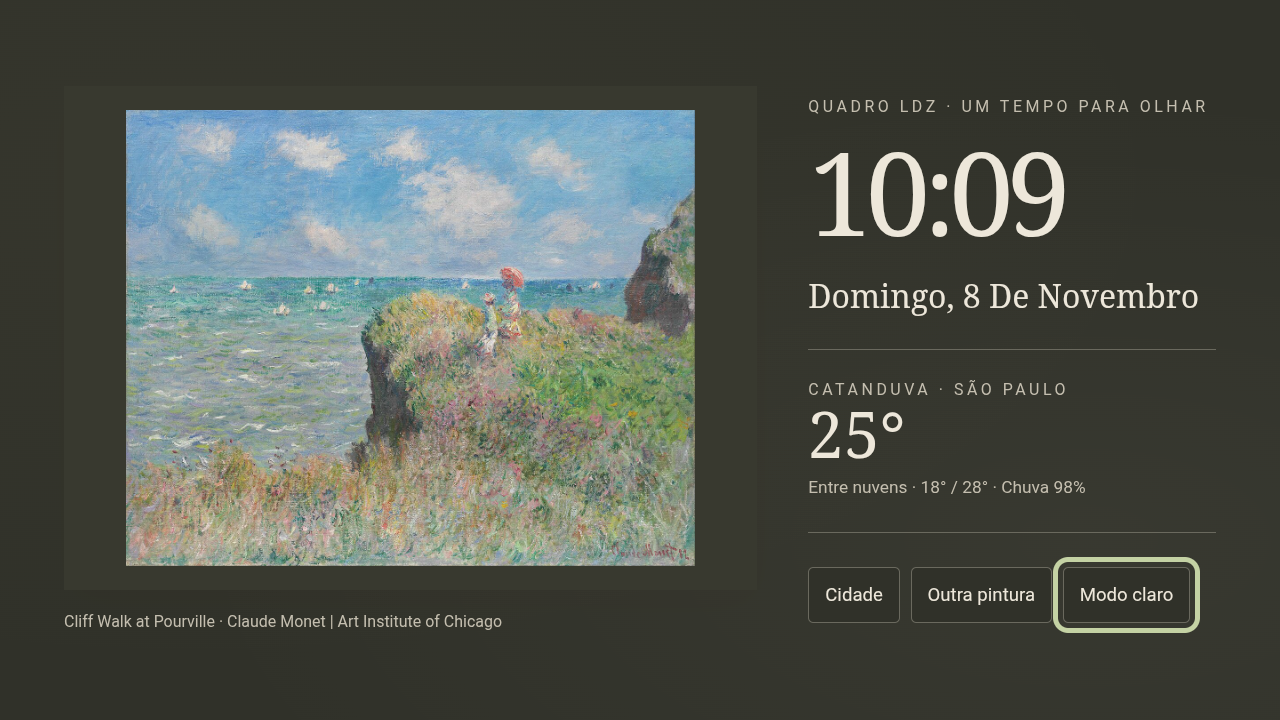
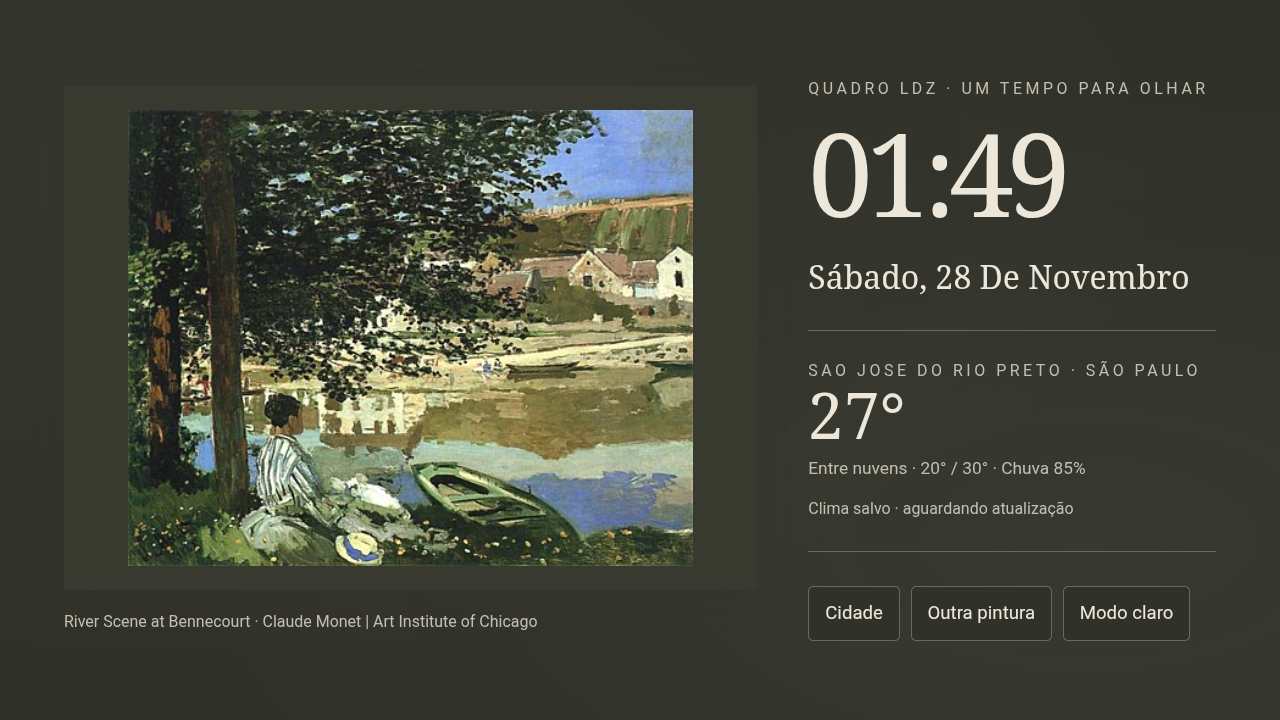
Atualiza capturas reais e colecao completa na demo do Quadro

diff --git a/demo.html b/demo.html
@@ -38,7 +38,7 @@ dialog p{font-size:13px;line-height:1.6;color:var(--muted)}
    <small>Clima ilustrativo. Hora e data no fuso da cidade de exemplo.</small>
   </section>
   <nav aria-label="Controles da demonstração"><button id="cityButton" aria-haspopup="dialog">Cidade</button><button id="next">Outra pintura</button><button id="theme" aria-pressed="false">Modo escuro</button></nav>
-  <p id="message" role="status">Seis obras · troca automática a cada 20 segundos.</p>
+  <p id="message" role="status">40 obras · troca automática a cada 20 segundos.</p>
  </aside>
 </main>
 <footer><span><strong class="label">Demonstração no navegador.</strong> No app: 40 pinturas offline, clima real e troca a cada 15 minutos.</span><span><a href="https://github.com/ludezam/Quadro-LDZ/releases/latest">Baixar para Android</a> · <a href="https://github.com/ludezam/Quadro-LDZ">Projeto e créditos</a></span></footer>
@@ -52,7 +52,7 @@ dialog p{font-size:13px;line-height:1.6;color:var(--muted)}
 <script>
 'use strict';
 // Seleção do catálogo do aplicativo, disponível também ao abrir este arquivo localmente.
-const works=[{"file": "pourville.jpg", "title": "Cliff Walk at Pourville", "artist": "Claude Monet", "collection": "Art Institute of Chicago"}, {"file": "br-01.jpg", "title": "Marinha, Guarujá", "artist": "Almeida Júnior", "collection": "Arte brasileira"}, {"file": "art-03.jpg", "title": "Paris Street; Rainy Day", "artist": "Gustave Caillebotte", "collection": "Art Institute of Chicago"}, {"file": "normandy.jpg", "title": "Arrival of the Normandy Train, Gare Saint-Lazare", "artist": "Claude Monet", "collection": "Art Institute of Chicago"}, {"file": "br-02.jpg", "title": "Paisagem do Sítio Rio das Pedras", "artist": "Almeida Júnior", "collection": "Arte brasileira"}, {"file": "br-04.jpg", "title": "Jardim à Beira-mar", "artist": "Benedito Calixto", "collection": "Arte brasileira"}];
+const works=[{"file":"pourville.jpg","title":"Cliff Walk at Pourville","artist":"Claude Monet","source":"https://commons.wikimedia.org/wiki/File:Claude_Monet_-_Cliff_Walk_at_Pourville_-_Google_Art_Project.jpg","license":"Public domain","collection":"Art Institute of Chicago"},{"file":"normandy.jpg","title":"Arrival of the Normandy Train, Gare Saint-Lazare","artist":"Claude Monet","source":"https://commons.wikimedia.org/wiki/File:Claude_Monet_-_Arrival_of_the_Normandy_Train,_Gare_Saint-Lazare_-_Google_Art_Project.jpg","license":"Public domain","collection":"Art Institute of Chicago"},{"file":"art-03.jpg","title":"Paris Street; Rainy Day","artist":"Gustave Caillebotte","source":"https://commons.wikimedia.org/wiki/File:Gustave_Caillebotte_-_Paris_Street;_Rainy_Day_-_Google_Art_Project.jpg","license":"Public domain","collection":"Art Institute of Chicago"},{"file":"br-01.jpg","title":"Marinha, Guarujá","artist":"Almeida Júnior","source":"https://commons.wikimedia.org/wiki/File:Almeida_J%C3%BAnior_-_Seascape,_Guaruj%C3%A1_-_Google_Art_Project.jpg","license":"Public domain","collection":"Arte brasileira","brazilian":true},{"file":"art-04.jpg","title":"Nocturne: Blue and Gold — Southampton Water","artist":"James McNeill Whistler","source":"https://commons.wikimedia.org/wiki/File:James_McNeill_Whistler_-_Nocturne-_Blue_and_Gold--Southampton_Water_-_Google_Art_Project.jpg","license":"Public domain","collection":"Art Institute of Chicago"},{"file":"art-05.jpg","title":"The Herring Net","artist":"Winslow Homer","source":"https://commons.wikimedia.org/wiki/File:Winslow_Homer_-_The_Herring_Net_-_Google_Art_Project.jpg","license":"Public domain","collection":"Art Institute of Chicago"},{"file":"art-06.jpg","title":"Landscape with Saint John on Patmos","artist":"Nicolas Poussin","source":"https://commons.wikimedia.org/wiki/File:Nicolas_Poussin_-_Landscape_with_Saint_John_on_Patmos_-_Google_Art_Project.jpg","license":"Public domain","collection":"Art Institute of Chicago"},{"file":"br-02.jpg","title":"Paisagem do Sítio Rio das Pedras","artist":"Almeida Júnior","source":"https://commons.wikimedia.org/wiki/File:Almeida_J%C3%BAnior_-_Landscape_at_the_Rio_das_Pedras_-_Google_Art_Project.jpg","license":"Public domain","collection":"Arte brasileira","brazilian":true},{"file":"art-07.jpg","title":"The Home of the Heron","artist":"George Inness","source":"https://commons.wikimedia.org/wiki/File:George_Inness_-_The_Home_of_the_Heron_-_Google_Art_Project.jpg","license":"Public domain","collection":"Art Institute of Chicago"},{"file":"art-08.jpg","title":"The Bay of Marseilles, Seen from L’Estaque","artist":"Paul Cézanne","source":"https://commons.wikimedia.org/wiki/File:Paul_C%C3%A9zanne_-_The_Bay_of_Marseilles,_Seen_from_L%27Estaque_-_Google_Art_Project.jpg","license":"Public domain","collection":"Art Institute of Chicago"},{"file":"art-09.jpg","title":"The Waterfall","artist":"Henri Rousseau","source":"https://commons.wikimedia.org/wiki/File:Henri_Rousseau_-_The_Waterfall_-_Google_Art_Project.jpg","license":"Public domain","collection":"Art Institute of Chicago"},{"file":"br-03.jpg","title":"Baía de São Vicente","artist":"Benedito Calixto","source":"https://commons.wikimedia.org/wiki/File:Benedito_Calixto_-_Ba%C3%ADa_de_S%C3%A3o_Vicente,_1905.jpg","license":"Public domain","collection":"Arte brasileira","brazilian":true},{"file":"art-10.jpg","title":"A Sunday on La Grande Jatte","artist":"Georges Seurat","source":"https://commons.wikimedia.org/wiki/File:Georges_Seurat_-_A_Sunday_on_La_Grande_Jatte_--_1884_-_Google_Art_Project.jpg","license":"Public domain","collection":"Art Institute of Chicago"},{"file":"art-11.jpg","title":"Flower Clouds","artist":"Odilon Redon","source":"https://commons.wikimedia.org/wiki/File:Odilon_Redon_-_Flower_Clouds_-_Google_Art_Project.jpg","license":"Public domain","collection":"Art Institute of Chicago"},{"file":"art-12.jpg","title":"Croquet Scene","artist":"Winslow Homer","source":"https://commons.wikimedia.org/wiki/File:Winslow_Homer_-_Croquet_Scene_-_Google_Art_ProjectFXD.jpg","license":"Public domain","collection":"Art Institute of Chicago"},{"file":"br-04.jpg","title":"Jardim à Beira-mar","artist":"Benedito Calixto","source":"https://commons.wikimedia.org/wiki/File:Benedito_Calixto_de_Jesus_-_Jardim_%C3%A0_Beira-mar_(Paisagem),_1894.jpg","license":"Public domain","collection":"Arte brasileira","brazilian":true},{"file":"art-13.jpg","title":"River Scene at Bennecourt","artist":"Claude Monet","source":"https://commons.wikimedia.org/wiki/File:Claude_Monet_River_Scene_at_Bennecourt,_Seine.jpg","license":"Public domain","collection":"Art Institute of Chicago"},{"file":"art-14.jpg","title":"Vétheuil","artist":"Claude Monet","source":"https://commons.wikimedia.org/wiki/File:Claude_Monet_-_V%C3%A9theuil,_1901_(Art_Institute_of_Chicago).jpg","license":"Public domain","collection":"Art Institute of Chicago"},{"file":"art-15.jpg","title":"Wheatstack (Snow Effect, Overcast Day)","artist":"Claude Monet","source":"https://commons.wikimedia.org/wiki/File:1281_Wheatstack_(Snow_Effect,_Overcast_day),_1890-91,_66_x_93_cm,_26_x_36_5-8,_The_Art_Institute_of_Chicago.jpg","license":"Public domain","collection":"Art Institute of Chicago"},{"file":"br-05.jpg","title":"Canto de Praia","artist":"Antônio Parreiras","source":"https://commons.wikimedia.org/wiki/File:Ant%C3%B4nio_Parreiras_-_Canto_de_Praia,_1886.jpg","license":"Public domain","collection":"Arte brasileira","brazilian":true},{"file":"art-16.jpg","title":"Wheatstacks (End of Summer)","artist":"Claude Monet","source":"https://commons.wikimedia.org/wiki/File:Wheatstacks_(End_of_Summer),_1890-91_(190_Kb);_Oil_on_canvas,_60_x_100_cm_(23_5-8_x_39_3-8_in),_The_Art_Institute_of_Chicago.jpg","license":"Public domain","collection":"Art Institute of Chicago"},{"file":"art-17.jpg","title":"Water Lily Pond","artist":"Claude Monet","source":"https://commons.wikimedia.org/wiki/File:1900_C.Monet_Japonski_mostek_w_Giverny..jpg","license":"Public domain","collection":"Art Institute of Chicago"},{"file":"art-18.jpg","title":"Bordighera","artist":"Claude Monet","source":"https://commons.wikimedia.org/wiki/File:Bordighera_by_Claude_Monet_1884.jpg","license":"Public domain","collection":"Art Institute of Chicago"},{"file":"br-06.jpg","title":"Paisagem (Água parada)","artist":"Antônio Parreiras","source":"https://commons.wikimedia.org/wiki/File:Ant%C3%B4nio_Parreiras_-_Paisagem_(%C3%81gua_parada).JPG","license":"Public domain","collection":"Arte brasileira","brazilian":true},{"file":"art-19.jpg","title":"Water Lilies","artist":"Claude Monet","source":"https://commons.wikimedia.org/wiki/File:Monet%27s_Water_Lilies.jpg","license":"Public domain","collection":"Art Institute of Chicago"},{"file":"art-20.jpg","title":"Stacks of Wheat (End of Day, Autumn)","artist":"Claude Monet","source":"https://commons.wikimedia.org/wiki/File:Monet_-_grainstacks-at-the-end-of-the-day-autumn.jpg","license":"Public domain","collection":"Art Institute of Chicago"},{"file":"art-21.jpg","title":"The Beach at Sainte-Adresse","artist":"Claude Monet","source":"https://commons.wikimedia.org/wiki/File:Claude_Monet_-_The_Beach_at_Sainte-Adresse_-_1933.439_-_Art_Institute_of_Chicago.jpg","license":"Public domain","collection":"Art Institute of Chicago"},{"file":"br-07.jpg","title":"Paisagem de Santa Teresa","artist":"Eliseu Visconti","source":"https://commons.wikimedia.org/wiki/File:EliseuVisconti-P519-Paisagem_de_Santa_Teresa.jpg","license":"Public domain","collection":"Arte brasileira","brazilian":true},{"file":"art-22.jpg","title":"Étretat, The Beach and the Falaise d’Amont","artist":"Claude Monet","source":"https://commons.wikimedia.org/wiki/File:Claude_Monet_-_%C3%89tretat,_The_Beach_and_the_Falaise_d%27Amont_-_1964.204_-_Art_Institute_of_Chicago.jpg","license":"Public domain","collection":"Art Institute of Chicago"},{"file":"art-23.jpg","title":"The Departure of the Boats, Étretat","artist":"Claude Monet","source":"https://commons.wikimedia.org/wiki/File:Claude_Monet_-_The_Departure_of_the_Boats,_%C3%89tretat_-_1922.428_-_Art_Institute_of_Chicago.jpg","license":"Public domain","collection":"Art Institute of Chicago"},{"file":"art-24.jpg","title":"Stack of Wheat","artist":"Claude Monet","source":"https://commons.wikimedia.org/wiki/File:Claude_Monet_-_Stack_of_Wheat_-_1983.29_-_Art_Institute_of_Chicago.jpg","license":"Public domain","collection":"Art Institute of Chicago"},{"file":"br-08.jpg","title":"Paisagem de Ipanema","artist":"Eliseu Visconti","source":"https://commons.wikimedia.org/wiki/File:EliseuVisconti-P518-Paisagem_de_Ipanema.jpg","license":"Public domain","collection":"Arte brasileira","brazilian":true},{"file":"art-25.jpg","title":"Place du Havre, Paris","artist":"Camille Pissarro","source":"https://commons.wikimedia.org/wiki/File:Camille_Pissarro_-_Place_du_Havre,_Paris_-_Art_Institute_of_Chicago.jpg","license":"Public domain","collection":"Art Institute of Chicago"},{"file":"art-26.jpg","title":"The Banks of the Marne in Winter","artist":"Camille Pissarro","source":"https://commons.wikimedia.org/wiki/File:Camille_Pissarro_-_Bords_de_la_Marne_en_Hiver.jpg","license":"Public domain","collection":"Art Institute of Chicago"},{"file":"art-27.jpg","title":"The Crystal Palace","artist":"Camille Pissarro","source":"https://commons.wikimedia.org/wiki/File:Camille_Pissarro_-_Le_Crystal_Palace,_Londres.jpg","license":"Public domain","collection":"Art Institute of Chicago"},{"file":"br-09.jpg","title":"Estrada do Mundo Novo com Pão de Açúcar ao Fundo","artist":"Abigail de Andrade","source":"https://commons.wikimedia.org/wiki/File:Abigail_de_Andrade,_1888,_Estrada_do_Mundo_Novo_com_P%C3%A3o_de_A%C3%A7%C3%BAcar_ao_Fundo.jpg","license":"Public domain","collection":"Arte brasileira","brazilian":true},{"file":"art-28.jpg","title":"Haymaking at Éragny","artist":"Camille Pissarro","source":"https://commons.wikimedia.org/wiki/File:Camille_Pissarro,_Haymaking_at_%C3%89ragny,_1892,_1961.791,_Art_Institute_of_Chicago.jpg","license":"Public domain","collection":"Art Institute of Chicago"},{"file":"art-29.jpg","title":"A Turn in the Road","artist":"Alfred Sisley","source":"https://commons.wikimedia.org/wiki/File:Alfred_Sisley_-_A_Turn_in_the_Road_-_1947.112_-_Art_Institute_of_Chicago.jpg","license":"Public domain","collection":"Art Institute of Chicago"},{"file":"art-30.jpg","title":"The Seine at Port-Marly, Piles of Sand","artist":"Alfred Sisley","source":"https://commons.wikimedia.org/wiki/File:Alfred_Sisley_-_The_Seine_at_Port-Marly,_Piles_of_Sand_-_1933.1177_-_Art_Institute_of_Chicago.jpg","license":"Public domain","collection":"Art Institute of Chicago"},{"file":"br-10.jpg","title":"Trecho de paisagem","artist":"Abigail de Andrade","source":"https://commons.wikimedia.org/wiki/File:Abigail_de_Andrade_-_Trecho_de_paisagem.jpg","license":"Public domain","collection":"Arte brasileira","brazilian":true}];
 const el=id=>document.getElementById(id);
 const cities=[
  ['São Paulo · SP','America/Sao_Paulo','23°','Entre nuvens · 18° / 25° · Chuva 20%'],
@@ -104,7 +104,7 @@ async function painting(){
   el('art').alt=incoming.alt;
   await window.PaintReveal.show(el('art'),incoming,el('paintMask'),el('artStage'));
   el('caption').textContent=work.title+' · '+work.artist+' | '+work.collection;
-  el('message').textContent='Seis obras · troca automática a cada 20 segundos.';
+  el('message').textContent='40 obras · troca automática a cada 20 segundos.';
  }catch(e){el('message').textContent='Não foi possível carregar esta pintura. Tente Outra pintura.'}
  finally{busy=false;el('next').removeAttribute('aria-disabled');deadline=Date.now()+20000}
 }

diff --git a/README.md b/README.md
@@ -23,7 +23,7 @@ Não é necessário Home Assistant. Esta versão não inclui reprodução de mú
 
 ## Demonstração
 
-Abra a [demonstração](https://ludezam.github.io/Quadro-LDZ/demo.html), ou baixe o repositório e abra demo.html no navegador. Ela apresenta seis pinturas do aplicativo, os temas claro e escuro e as mesmas pinceladas de três segundos. Escolha uma cidade no painel para ver o relógio no fuso correspondente e um exemplo de clima. Use as setas e Enter para navegar, ou clique/toque nos botões. A demonstração não consulta a previsão, não coleta dados nem instala APKs.
+Abra a [demonstração](https://ludezam.github.io/Quadro-LDZ/demo.html), ou baixe o repositório e abra demo.html no navegador. Ela usa as 40 pinturas locais, relógio do dispositivo, temas e a transição real de três segundos. Cidade e clima são exemplos ilustrativos; não há consultas de previsão, coleta de dados nem instalação de APK pelo navegador.
 
 ## Aparência
 
@@ -31,7 +31,7 @@ Abra a [demonstração](https://ludezam.github.io/Quadro-LDZ/demo.html), ou baix
 | --- | --- |
 | ![Painel em tema claro](docs/images/light.png) | ![Painel em tema escuro](docs/images/dark.png) |
 
-Capturas da interface em TCL Android 11. O layout se mantém na versão 0.3.0, que acrescenta o novo ícone e as pinturas brasileiras.
+Capturas atuais da interface em uma TCL Android TV. A demo acompanha a coleção de 40 obras, os temas, a troca de pinturas e os controles de cidade; o clima no navegador é ilustrativo.
 
 ## Instalação
 
